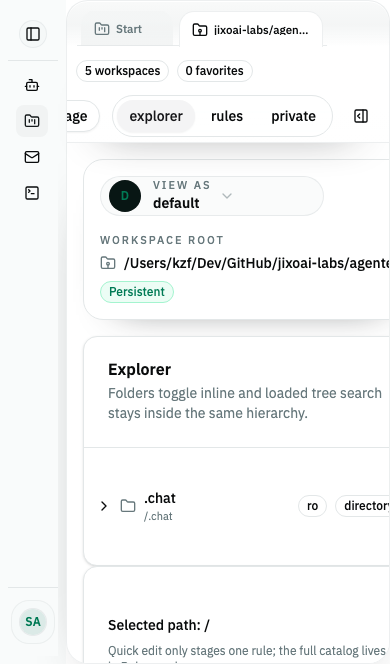
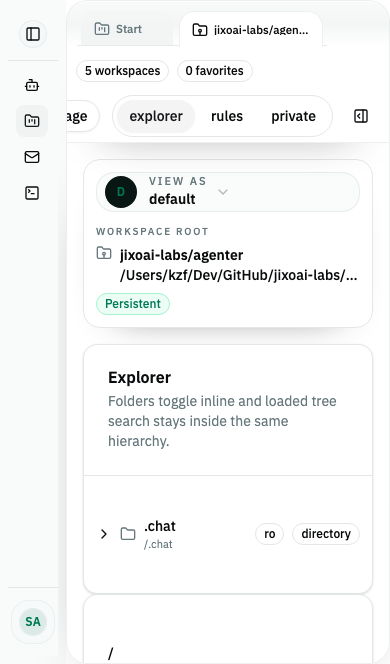
fix(webui): densify workspace mobile detail shell

diff --git a/packages/webui/src/lib/features/workspaces/workspace-content-header.svelte b/packages/webui/src/lib/features/workspaces/workspace-content-header.svelte
@@ -5,7 +5,7 @@
 	import { Badge } from '$lib/components/ui/badge/index.js';
 	import * as Select from '$lib/components/ui/select/index.js';
 
-	import { describeWorkspace } from './workspace-sorting';
+	import { describeCompactWorkspace, describeWorkspace } from './workspace-sorting';
 
 	interface WorkspaceOption {
 		path: string;
@@ -42,13 +42,20 @@
 	const objectiveLabel = $derived(
 		objectivePath ?? (selectedWorkspace ? describeWorkspace(selectedWorkspace.path) : 'Select a workspace root'),
 	);
+	const objectiveCompactLabel = $derived(
+		objectivePath
+			? describeCompactWorkspace(objectivePath)
+			: selectedWorkspace
+				? describeCompactWorkspace(selectedWorkspace.path)
+				: 'Workspace root',
+	);
 </script>
 
 <section
-	class="rounded-[1.25rem] border bg-card/70 px-4 py-4 shadow-[0_18px_38px_-36px_color-mix(in_srgb,var(--foreground),transparent_18%)] md:px-6"
+	class="min-w-0 w-full rounded-[1.05rem] border bg-card/70 px-3 py-3 shadow-[0_18px_38px_-36px_color-mix(in_srgb,var(--foreground),transparent_18%)] md:rounded-[1.25rem] md:px-6 md:py-4"
 	data-testid="workspace-content-header"
 >
-	<div class="flex flex-col gap-4 md:flex-row md:items-center md:justify-between">
+	<div class="flex min-w-0 flex-col gap-3 md:flex-row md:items-center md:justify-between md:gap-4">
 		<Select.Root
 			type="single"
 			items={avatarItems}
@@ -59,7 +66,7 @@
 		>
 			<Select.Trigger
 				aria-label="View as"
-				class="h-auto min-h-10 min-w-[14rem] justify-start rounded-full border-border/80 bg-muted/35 px-2 py-2 shadow-none"
+				class="h-auto min-h-10 w-full min-w-0 justify-start rounded-2xl border-border/80 bg-muted/35 px-2 py-2 shadow-none md:min-w-[14rem] md:w-auto md:rounded-full"
 				data-testid="workspace-avatar-select"
 			>
 				<div class="flex min-w-0 items-center gap-3">
@@ -80,19 +87,25 @@
 		</Select.Root>
 
 		<div class="min-w-0 flex-1">
-			<div class="text-[11px] font-medium uppercase tracking-[0.18em] text-muted-foreground">Workspace root</div>
-			<div class="mt-1 flex flex-wrap items-center gap-2 md:gap-3">
-				<div class="flex min-w-0 items-center gap-2">
+			<div class="text-[10px] font-medium uppercase tracking-[0.18em] text-muted-foreground md:text-[11px]">Workspace root</div>
+			<div class="mt-1.5 grid min-w-0 gap-2">
+				<div class="flex min-w-0 items-start gap-2">
 					<FolderRootIcon class="size-4 shrink-0 text-muted-foreground" />
-					<div class="truncate text-sm font-medium text-foreground md:text-[15px]">{objectiveLabel}</div>
+					<div class="min-w-0">
+						<div class="truncate text-sm font-semibold text-foreground md:hidden">{objectiveCompactLabel}</div>
+						<div class="truncate text-sm font-medium text-foreground md:hidden">{objectiveLabel}</div>
+						<div class="hidden truncate text-sm font-medium text-foreground md:block md:text-[15px]">{objectiveLabel}</div>
+					</div>
 				</div>
-				<Badge variant="outline" class="border-emerald-200 bg-emerald-50 text-emerald-700">Persistent</Badge>
-				{#if selectedWorkspace?.favorite}
-					<Badge variant="secondary">Favorite</Badge>
-				{/if}
-				{#if selectedWorkspace?.path === '~/'}
-					<Badge variant="outline">Global</Badge>
-				{/if}
+				<div class="flex flex-wrap items-center gap-1.5 md:gap-2">
+					<Badge variant="outline" class="border-emerald-200 bg-emerald-50 text-emerald-700">Persistent</Badge>
+					{#if selectedWorkspace?.favorite}
+						<Badge variant="secondary">Favorite</Badge>
+					{/if}
+					{#if selectedWorkspace?.path === '~/'}
+						<Badge variant="outline">Global</Badge>
+					{/if}
+				</div>
 			</div>
 		</div>
 	</div>

diff --git a/packages/webui/src/lib/features/workspaces/workspaces-route.svelte b/packages/webui/src/lib/features/workspaces/workspaces-route.svelte
@@ -773,7 +773,7 @@
 			</Card.Content>
 		</Card.Root>
 	{:else}
-	<div class={cn(hideCompactContentHeader && 'hidden md:block')}>
+	<div class={cn('min-w-0 w-full', hideCompactContentHeader && 'hidden md:block')}>
 		<WorkspaceContentHeader
 			objectivePath={workspaceObjectivePath}
 			{selectedWorkspace}
@@ -798,7 +798,7 @@
 	/>
 
 	<WorkbenchPageContent
-		class="row-start-2 h-full"
+		class="row-start-2 h-full min-w-0 w-full"
 		detailLayout="split-detail"
 		bind:detailCompact
 		bind:detailOpen
@@ -981,7 +981,31 @@
 							{/if}
 						</div>
 					{:else}
-						<div class="grid gap-2">
+						<div class="grid gap-2.5 md:hidden">
+							<div class="grid gap-0.5">
+								<div class="truncate text-sm font-medium">
+									{selectedExplorerPath ?? 'Select one path to stage a quick rule.'}
+								</div>
+								<div class="text-[11px] leading-5 text-muted-foreground">
+									Quick rule staging for the current tree selection.
+								</div>
+							</div>
+							<div class="grid grid-cols-[minmax(0,1fr)_auto_auto] items-center gap-2">
+								<NativeSelect.NativeSelect bind:value={quickRuleMode} class="min-w-0">
+									<option value="ro">Read only</option>
+									<option value="rw">Read write</option>
+								</NativeSelect.NativeSelect>
+								<Button variant="outline" size="sm" onclick={stageQuickRule}>
+									<PlusIcon class="size-4" />
+									Stage
+								</Button>
+								<Button size="sm" disabled={!rulesDirty || rulesSaving} onclick={() => void persistRules()}>
+									<SaveIcon class="size-4" />
+									{rulesSaving ? 'Applying…' : 'Apply'}
+								</Button>
+							</div>
+						</div>
+						<div class="hidden md:grid md:gap-2">
 							<div class="text-sm font-medium">
 								{selectedExplorerPath ? `Selected path: ${selectedExplorerPath}` : 'Select one path to stage a quick rule.'}
 							</div>
@@ -989,7 +1013,7 @@
 								Quick edit only stages one rule; the full catalog lives in Rules mode.
 							</div>
 						</div>
-						<div class="flex flex-wrap items-center gap-2">
+						<div class="hidden md:flex md:flex-wrap md:items-center md:gap-2">
 							<NativeSelect.NativeSelect bind:value={quickRuleMode} class="min-w-36">
 								<option value="ro">Read only</option>
 								<option value="rw">Read write</option>

diff --git a/packages/webui/src/lib/features/workspaces/workspace-content-header-contract.spec.ts b/packages/webui/src/lib/features/workspaces/workspace-content-header-contract.spec.ts
@@ -1,0 +1,22 @@
+import { readFileSync } from "node:fs";
+import { resolve } from "node:path";
+
+import { describe, expect, test } from "vitest";
+
+const workspaceContentHeaderSource = readFileSync(
+  resolve(import.meta.dirname, "workspace-content-header.svelte"),
+  "utf8",
+);
+
+describe("Feature: Workspace content header mobile density contract", () => {
+  test("Scenario: Given a narrow workspace shell When reading the header source Then the mobile layout keeps one compact label plus the full path as secondary text", () => {
+    expect(workspaceContentHeaderSource).toContain("describeCompactWorkspace");
+    expect(workspaceContentHeaderSource).toContain("objectiveCompactLabel");
+    expect(workspaceContentHeaderSource).toContain("md:hidden");
+  });
+
+  test("Scenario: Given the mobile header must not widen the route When reading the source Then the outer surface and avatar trigger both opt into shrinking", () => {
+    expect(workspaceContentHeaderSource).toContain("min-w-0 w-full");
+    expect(workspaceContentHeaderSource).toContain("class=\"h-auto min-h-10 w-full min-w-0");
+  });
+});

diff --git a/packages/webui/src/lib/features/workspaces/workspaces-route-contract.spec.ts b/packages/webui/src/lib/features/workspaces/workspaces-route-contract.spec.ts
@@ -32,8 +32,16 @@ describe("Feature: Workspaces route search and rules contract", () => {
     expect(workspacesRouteSource).toContain("hidden md:block");
     expect(workspacesRouteSource).toContain("detailCompact && detailOpen");
     expect(workspacesRouteSource).toContain("gap-0 p-0");
-    expect(workspacesRouteSource).toContain("class=\"row-start-2 h-full\"");
+    expect(workspacesRouteSource).toContain("class=\"row-start-2 h-full min-w-0 w-full\"");
     expect(workspacesRouteSource).toContain("tone={detailCompact ? 'page' : 'pane'}");
+  });
+
+  test("Scenario: Given explorer quick actions stay in the bottom area When reading the route source Then mobile switches to a denser action dock instead of repeating the desktop card", () => {
+    expect(workspacesRouteSource).toContain("grid gap-2.5 md:hidden");
+    expect(workspacesRouteSource).toContain("Quick rule staging for the current tree selection.");
+    expect(workspacesRouteSource).toContain("Stage");
+    expect(workspacesRouteSource).toContain("Apply");
+    expect(workspacesRouteSource).toContain("grid-cols-[minmax(0,1fr)_auto_auto]");
   });
 
   test("Scenario: Given workspace root selection moved to the fixed start page When reading the detail route source Then the detail shell no longer owns an inline root switcher", () => {

diff --git a/packages/webui/src/lib/features/workspaces/workspace-shell.stories.ts b/packages/webui/src/lib/features/workspaces/workspace-shell.stories.ts
@@ -48,7 +48,7 @@ export const AvatarLensKeepsRootContext = {
 		const canvas = getCanvas(canvasElement);
 		const contentHeader = getContentHeader(canvasElement);
 
-		await expect(contentHeader.getByText('/repo/agenter')).toBeInTheDocument();
+		await expect(contentHeader.getAllByText('/repo/agenter')[0]).toBeInTheDocument();
 		await expect(contentHeader.getByText('Persistent')).toBeInTheDocument();
 		await userEvent.click(canvas.getByTestId('workspace-avatar-select'));
 		await userEvent.click(await screen.findByText('reviewer'));
@@ -56,7 +56,7 @@ export const AvatarLensKeepsRootContext = {
 		await waitFor(() => {
 			expect(contentHeader.getByText('reviewer')).toBeInTheDocument();
 		});
-		await expect(contentHeader.getByText('/repo/agenter')).toBeInTheDocument();
+		await expect(contentHeader.getAllByText('/repo/agenter')[0]).toBeInTheDocument();
 	},
 } satisfies Story;
 